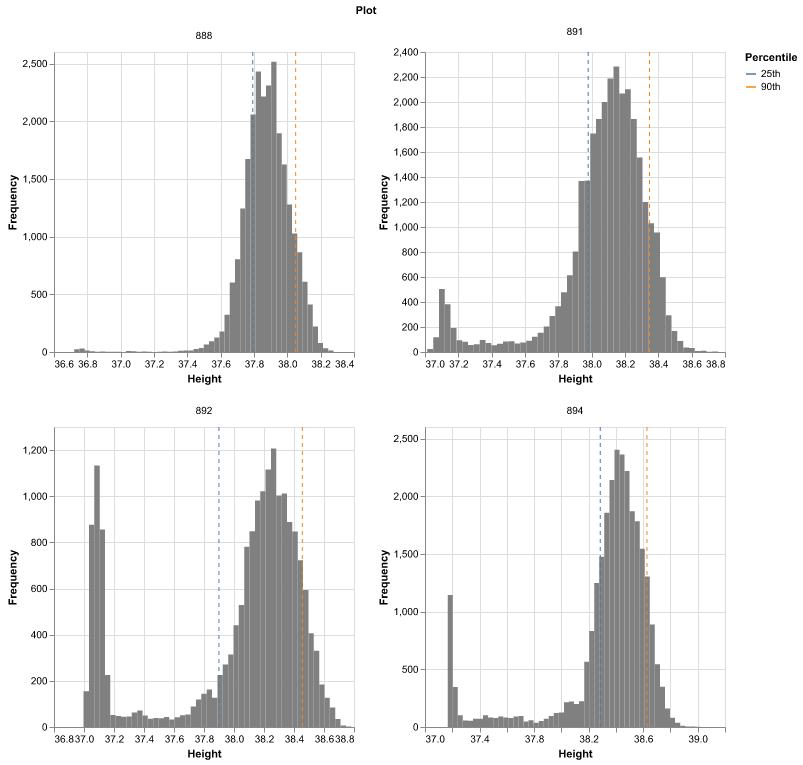
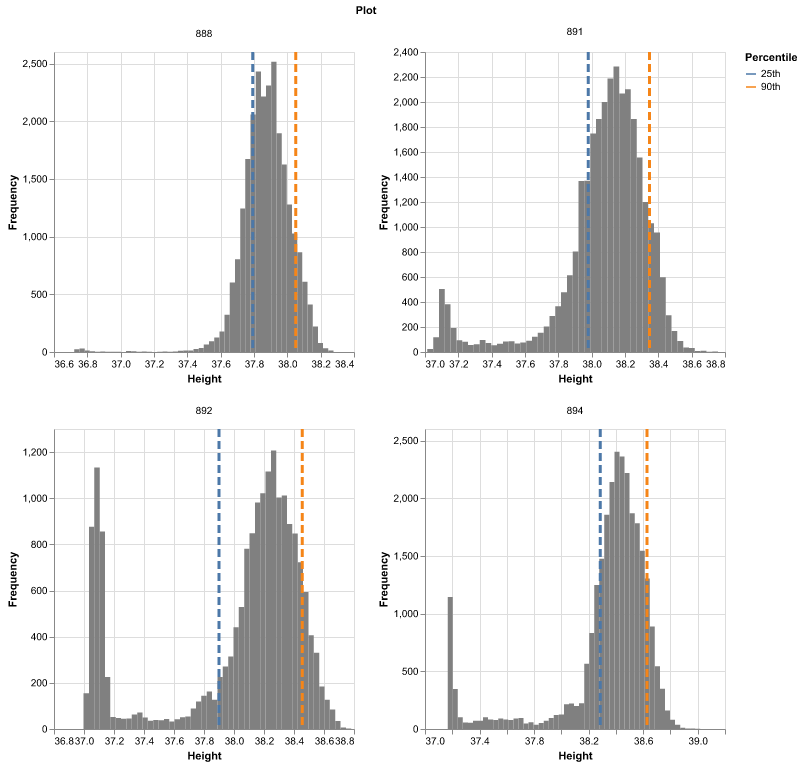
Made debug percentile lines thicker

diff --git a/plantcv/geospatial/visualize/height.py b/plantcv/geospatial/visualize/height.py
@@ -90,7 +90,7 @@ def height_distribution(img, geojson, n=9, bins=50, lower=25, upper=90, seed=Non
         y=alt.Y("count:Q", title="Frequency"), y2=alt.Y2(datum=0))
 
     percentile_lines = alt.Chart().transform_filter(alt.datum.kind == "percentile").mark_rule(
-        strokeDash=[4, 4]).encode(x=alt.X("value:Q", scale=alt.Scale(zero=False)),
+        strokeDash=[8, 4], strokeWidth=3).encode(x=alt.X("value:Q", scale=alt.Scale(zero=False)),
                                   color=alt.Color("percentile:N", title="Percentile"))
 
     ncols = int(np.ceil(np.sqrt(n)))
